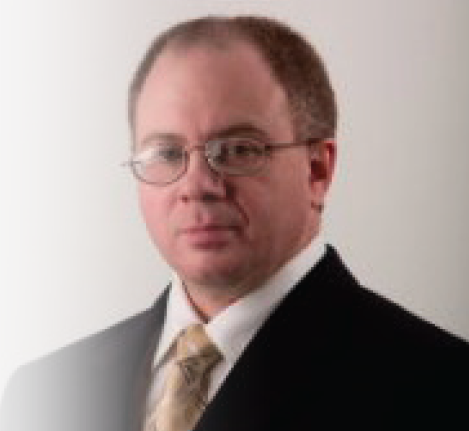
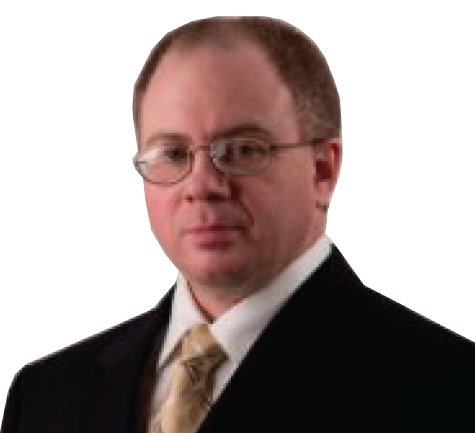
homepage responsiveness

diff --git a/css/style.css b/css/style.css
@@ -1,1 +1,1 @@
-@import url(https://fonts.googleapis.com/css?family=Open+Sans:400,800,600,300,700);header .navbar-default{background:#fff;min-height:100px;padding:12px 0;border-bottom:5px solid #0098d1;margin-bottom:0}@media (max-width:480px){header .navbar-default .logo{width:80%}}header .navbar-default .navbar-nav>li.active>a{color:#707070;background:0 0;font-weight:800;font-family:OpenSansExtraBold}header .navbar-default .navbar-nav>li.active>a:focus,header .navbar-default .navbar-nav>li.active>a:hover{color:#707070;background:0 0;font-family:OpenSansExtraBold}header .navbar-default .navbar-nav>li>a{padding-top:25px;padding-bottom:25px;color:#898989;text-transform:uppercase;-webkit-transition:all .2s ease-in-out 0s;-o-transition:all .2s ease-in-out 0s;transition:all .2s ease-in-out 0s;font-weight:600;font-size:16px;font-family:OpenSansSemibold}header .navbar-default .navbar-nav>li>a:focus,header .navbar-default .navbar-nav>li>a:hover{color:#707070;background:0 0;font-family:OpenSansSemibold}@media (max-width:991px){header .navbar-default .navbar-nav>li>a{padding:25px 10px}}@media (max-width:767px){header .navbar-toggle{margin-top:18px}}.upper-footer{padding:60px 0;background:#0098d1;color:#fff}.upper-footer p{font-size:16px;margin-bottom:0;display:inline-block;vertical-align:middle}@media (max-width:991px){.upper-footer .copyright{text-align:center}}.upper-footer .footer-menu{margin-bottom:0}.upper-footer .footer-menu li{list-style-type:none;display:inline-block;vertical-align:middle;line-height:normal}.upper-footer .footer-menu li a{display:inline-block;vertical-align:top;color:#fff;padding:0 12px;font-size:16px;line-height:normal;text-transform:uppercase;font-weight:700;-webkit-transition:all .3s ease-in-out 0s;-o-transition:all .3s ease-in-out 0s;transition:all .3s ease-in-out 0s}.upper-footer .footer-menu li a:hover{color:#eee}@media (max-width:991px){.upper-footer .footer-menu{float:none!important;margin-top:10px;padding:0;text-align:center}}.bottom-footer{background:#00aeef;padding:30px 0;text-align:center}body{color:#707070;font-family:'Open Sans',sans-serif;font-size:18px}a:active,a:focus,a:hover{text-decoration:none}a:active,a:focus{outline:0}h3{color:#0098d1;text-transform:uppercase;font-size:36px;font-weight:400}h5{text-transform:uppercase;font-size:18px}img{max-width:100%}.btn-custom-blue{background:#fff;border-color:#0098d1;text-transform:uppercase;color:#0098d1;font-family:OpenSansBold;-webkit-transition:all .3s ease-in-out 0s;-o-transition:all .3s ease-in-out 0s;transition:all .3s ease-in-out 0s;font-weight:700;font-size:16px;padding:12px 20px}.btn-custom-blue:focus,.btn-custom-blue:hover{background:#0098d1;color:#fff}.btn-custom-white{border-color:#fff;text-transform:uppercase;color:#fff;-webkit-transition:all .3s ease-in-out 0s;-o-transition:all .3s ease-in-out 0s;transition:all .3s ease-in-out 0s;font-weight:700;font-size:16px;padding:12px 20px}.btn-custom-white:focus,.btn-custom-white:hover{background:#fff;color:#0098d1}.button-container{position:relative;float:left;-webkit-transform:rotate(-90deg);-moz-transform:rotate(270deg);-o-transform:rotate(270deg);-webkit-transform-origin:285px 285px 0;-moz-transform-origin:285px 285px 0;-o-transform-origin:285px 285px 0}@media (max-width:767px){.button-container{float:none;margin-top:10px;text-align:center;-webkit-transform:rotate(0deg);-moz-transform:rotate(0deg);-o-transform:rotate(0deg)}}.btn-contact{text-transform:uppercase;font-size:16px;color:#fff;padding:6px 12px;font-weight:700;font-family:OpenSansBold}.btn-contact:hover{color:#fff}@media (max-width:480px){.btn-contact{display:block}}.btn-contact-blue{background:#0098d1}.btn-contact-blue:hover{background:#00739e}.btn-contact-green{background:#8dc63f}.btn-contact-green:hover{background:#72a230}.welcome-banner{background:url(../images/top-banner.png) center;background-size:cover;min-height:680px}.welcome-banner .banner-content{background:rgba(0,153,210,.5);padding:40px 90px;margin:300px 120px 150px;text-align:center}.welcome-banner .banner-content h1{text-transform:uppercase;color:#fff;font-size:66px;margin-top:0;font-weight:300}.welcome-banner .banner-content h1 span{font-weight:700}.welcome-banner .banner-content p{color:#fff;font-size:24px;font-family:OpenSansLight}.sticky-btns{background:0 0;min-height:inherit}.main-section{background:#fafafc}.main-section .content-section{padding:70px 0}.main-section .content-section p{font-size:18px}.main-section .content-section .btn{margin-top:10px}.cols-section{padding:65px 0;background-color:#fff}.cols-section .home-img-icon{height:120px;width:120px;background:#0098d1;border-radius:50%;line-height:120px;text-align:center;display:inline-block;vertical-align:middle}.cols-section .home-inner-cols{padding:0 40px}.cols-section h5{margin:40px 0;font-family:OpenSansBold}.mid-banner{padding:45px 0;background:url(../images/banner2.png) center;background-size:cover}.mid-banner .mid-content{text-align:center}.mid-banner .mid-content h4{font-size:44px;font-family:'Open Sans',sans-serif;text-transform:uppercase;color:#fff}@font-face{font-family:OpenSansRegular;src:url(../fonts/OpenSans-Regular.ttf)}@font-face{font-family:OpenSansLight;src:url(../fonts/OpenSans-Light.ttf)}@font-face{font-family:OpenSansLightItalic;src:url(../fonts/OpenSans-LightItalic.ttf)}@font-face{font-family:OpenSansBold;src:url(../fonts/OpenSans-Bold.ttf)}@font-face{font-family:OpenSansSemibold;src:url(../fonts/OpenSans-Semibold.ttf)}@font-face{font-family:OpenSansExtraBold;src:url(../fonts/OpenSans-ExtraBold.ttf)}body{background:url(../images/body-bg.png)}h1,h2,h3,h4,h5,h6{font-family:OpenSansLight}a{text-decoration:none}.padding-zero{padding:0}.text-right{text-align:right}.main-wrap{width:100%;padding-top:75px;background:0 0}.heading-wrap{margin-bottom:75px;text-align:center;color:#fff}.heading-wrap .title{font-size:66px;font-weight:400;text-transform:uppercase}.heading-wrap .tag-line{font-size:23px;font-weight:400}.content-container{background-image:linear-gradient(transparent 100px,#f3f3f5 100px,#f3f3f5 100%)}.content-wrap{background-color:#fff;font-weight:400;color:#757575}.contact-form{border-top:15px solid #0198d1;padding:40px}.contact-form .required-instruction{margin-bottom:30px;font-size:16px}.contact-form .required{color:red}.contact-form .form-group label{font-weight:400;font-size:16px}.contact-form .form-group .text-box{height:55px;border-color:#00aff0}.contact-form .form-group textarea{min-height:185px}.contact-form .submit{border-color:#00aff0;font-family:openSansBold;font-size:16px;text-transform:uppercase;color:#00aff0}.contact-form .submit:focus,.contact-form .submit:hover{background-color:#00aff0;color:#fff}.careers-form{border-top-color:#8ec63f}.about-container{background-color:#fff;font-size:18px}.about-container .title{margin-bottom:30px;font-size:32px;text-transform:uppercase;color:#4fbfed}.about-container .superior-benefits-content{margin-bottom:60px}.about-container .superior-benefits{margin:0 0 10px;padding-left:15px;font-family:OpenSansLightItalic;font-size:34px}@media (max-width:480px){.about-container .superior-benefits{padding-left:0;font-size:28px}}.about-container .who-avisyn{padding-left:50px;background:linear-gradient(to right,#f9f9f9,#f9f9f9,#f9f9f9,#f9f9f9,#e4dedd,#cabebe);background-size:cover}.about-container .who-avisyn .about-avisyn-outer{padding-top:70px}.about-container .who-avisyn .about-avisyn-outer p{margin-bottom:30px}.about-container .who-avisyn .founder-img-outer{text-align:right}.about-container .who-avisyn .founder-img-outer .founder-img{display:initial}@media (max-width:991px){.about-container .who-avisyn .founder-img-outer{text-align:center}}@media (max-width:991px){.about-container .who-avisyn{padding-right:50px}}.about-container .about-content-wrap{padding:50px}.about-container .about-content-wrap .other-content{margin-top:30px}.about-container .about-content-wrap .other-content .author{font-family:OpenSansSemibold}.about-container .about-content-wrap .other-content .founder{font-family:OpenSansExtraBold}.about-container .about-content-wrap .contact-us-link{margin-top:80px}.about-container .about-content-wrap .contact-us-link .contact{border-top:1px solid #44c4f3;padding-top:20px;color:#44c4f3}.text-with-border{margin:50px 0 0;width:80px;border-color:#44c4f3}.contact-wrap{border:none}.services-mid-banner{float:right;padding-top:100px;background:url(../images/services-mid-banner.png) repeat-x #0098d1}.services-mid-banner .mid-content{float:right;width:77%;padding-right:70px;text-align:left}.services-mid-banner .mid-content h4{font-family:openSansLight;font-size:32px}.services-mid-banner .mid-content p{color:#fff}@media (max-width:991px){.services-mid-banner .mid-content{float:none;width:100%;padding-left:50px;padding-right:50px}}@media (max-width:991px){.services-mid-banner{padding-top:50px}}.find-out-text{padding-top:10px}.content-wrap .insourcing-wrap{background:#fff}.content-wrap .services-cols{padding:50px 55px;background:#fff;clear:both}.content-wrap .services-cols .cols-content h4{margin:40px 0;font-family:openSansLight;font-size:28px;text-transform:uppercase;color:#00aeef}.content-wrap .services-cols .cols-content p{margin-bottom:30px}.content-wrap .services-cols .cols-content p a{color:#00aeef}
+@import url(https://fonts.googleapis.com/css?family=Open+Sans:400,800,600,300,700);header .navbar-default{background:#fff;min-height:100px;padding:12px 0;border-bottom:5px solid #0098d1;margin-bottom:0}@media (max-width:480px){header .navbar-default .logo{width:80%}}header .navbar-default .navbar-nav>li.active>a{color:#707070;background:0 0;font-weight:800;font-family:OpenSansExtraBold}header .navbar-default .navbar-nav>li.active>a:focus,header .navbar-default .navbar-nav>li.active>a:hover{color:#707070;background:0 0;font-family:OpenSansExtraBold}header .navbar-default .navbar-nav>li>a{padding-top:25px;padding-bottom:25px;color:#898989;text-transform:uppercase;-webkit-transition:all .2s ease-in-out 0s;-o-transition:all .2s ease-in-out 0s;transition:all .2s ease-in-out 0s;font-weight:600;font-size:16px;font-family:OpenSansSemibold}header .navbar-default .navbar-nav>li>a:focus,header .navbar-default .navbar-nav>li>a:hover{color:#707070;background:0 0;font-family:OpenSansSemibold}@media (max-width:991px){header .navbar-default .navbar-nav>li>a{padding:25px 10px}}@media (max-width:767px){header .navbar-toggle{margin-top:18px}}.upper-footer{padding:60px 0;background:#5ac9f3;color:#fff}.upper-footer p{font-size:16px;margin-bottom:0;display:inline-block;vertical-align:middle}@media (max-width:991px){.upper-footer .copyright{text-align:center}}.upper-footer .footer-menu{margin-bottom:0}.upper-footer .footer-menu li{list-style-type:none;display:inline-block;vertical-align:middle;line-height:normal}.upper-footer .footer-menu li a{display:inline-block;vertical-align:top;color:#fff;padding:0 12px;font-size:16px;line-height:normal;text-transform:uppercase;font-weight:700;-webkit-transition:all .3s ease-in-out 0s;-o-transition:all .3s ease-in-out 0s;transition:all .3s ease-in-out 0s}.upper-footer .footer-menu li a:hover{color:#eee}@media (max-width:991px){.upper-footer .footer-menu{float:none!important;margin-top:10px;padding:0;text-align:center}}.bottom-footer{background:#00aeef;padding:30px 0;text-align:center}body{color:#707070;font-family:'Open Sans',sans-serif;font-size:18px}a:active,a:focus,a:hover{text-decoration:none}a:active,a:focus{outline:0}h3{color:#0098d1;text-transform:uppercase;font-size:36px;font-weight:400}h5{text-transform:uppercase;font-size:18px}img{max-width:100%}.btn-custom-blue{background:#fff;border-color:#0098d1;text-transform:uppercase;color:#0098d1;font-family:OpenSansBold;-webkit-transition:all .3s ease-in-out 0s;-o-transition:all .3s ease-in-out 0s;transition:all .3s ease-in-out 0s;font-weight:700;font-size:16px;padding:12px 20px}.btn-custom-blue:focus,.btn-custom-blue:hover{background:#0098d1;color:#fff}.btn-custom-white{border-color:#fff;text-transform:uppercase;color:#fff;-webkit-transition:all .3s ease-in-out 0s;-o-transition:all .3s ease-in-out 0s;transition:all .3s ease-in-out 0s;font-weight:700;font-size:16px;padding:12px 20px}.btn-custom-white:focus,.btn-custom-white:hover{background:#fff;color:#0098d1}.button-container{position:relative;float:left;margin-top:-22px;-webkit-transform:rotate(-90deg);-moz-transform:rotate(270deg);-o-transform:rotate(270deg);-webkit-transform-origin:285px 285px 0;-moz-transform-origin:285px 285px 0;-o-transform-origin:285px 285px 0}@media (max-width:767px){.button-container{float:none;margin-top:10px;text-align:center;-webkit-transform:rotate(0deg);-moz-transform:rotate(0deg);-o-transform:rotate(0deg)}}.btn-contact{text-transform:uppercase;font-size:16px;color:#fff;padding:6px 12px;font-weight:700;font-family:OpenSansBold}.btn-contact:hover{color:#fff}@media (max-width:480px){.btn-contact{display:block}}.btn-contact-blue{background:#0098d1}.btn-contact-blue:hover{background:#00739e}.btn-contact-green{background:#8dc63f;margin-left:-25px;margin-right:15px}.btn-contact-green:hover{background:#72a230}@media (max-width:767px){.btn-contact-green{margin:0}}.welcome-banner{background:url(../images/top-banner.png) center;background-size:cover;min-height:680px}.welcome-banner .banner-content{background:rgba(0,153,210,.5);padding:40px 90px;margin:300px 120px 150px;text-align:center}.welcome-banner .banner-content h1{text-transform:uppercase;color:#fff;font-size:66px;margin-top:0;font-weight:300}.welcome-banner .banner-content h1 span{font-weight:700}.welcome-banner .banner-content p{color:#fff;font-size:24px;font-family:OpenSansLight}@media (max-width:767px){.welcome-banner .banner-content{margin:20% 0 0}}@media (max-width:480px){.welcome-banner .banner-content{padding:20px}.welcome-banner .banner-content h1{font-size:50px}}.sticky-btns{background:0 0;min-height:inherit}.main-section{background:#fafafc}.main-section .content-section{padding:70px 0}.main-section .content-section p{font-size:18px}.main-section .content-section .btn{margin-top:10px}.cols-section{padding:65px 0;background-color:#fff}.cols-section .home-img-icon{height:120px;width:120px;background:#0098d1;border-radius:50%;line-height:120px;text-align:center;display:inline-block;vertical-align:middle}.cols-section .home-inner-cols{padding:0 40px}.cols-section h5{margin:40px 0;font-family:OpenSansBold}.mid-banner{padding:45px 0;background:url(../images/banner2.png) center;background-size:cover}.mid-banner .mid-content{text-align:center}.mid-banner .mid-content h4{font-size:44px;font-family:'Open Sans',sans-serif;text-transform:uppercase;color:#fff}@font-face{font-family:OpenSansRegular;src:url(../fonts/OpenSans-Regular.ttf)}@font-face{font-family:OpenSansLight;src:url(../fonts/OpenSans-Light.ttf)}@font-face{font-family:OpenSansLightItalic;src:url(../fonts/OpenSans-LightItalic.ttf)}@font-face{font-family:OpenSansBold;src:url(../fonts/OpenSans-Bold.ttf)}@font-face{font-family:OpenSansSemibold;src:url(../fonts/OpenSans-Semibold.ttf)}@font-face{font-family:OpenSansExtraBold;src:url(../fonts/OpenSans-ExtraBold.ttf)}body{background:url(../images/body-bg.png) center 0}h1,h2,h3,h4,h5,h6{font-family:OpenSansLight}a{text-decoration:none}.padding-zero{padding:0}.text-right{text-align:right}.main-wrap{width:100%;padding-top:45px;background:0 0}.heading-wrap{margin-bottom:60px;text-align:center;color:#fff}.heading-wrap .title{font-size:66px;font-weight:400;text-transform:uppercase}.heading-wrap .tag-line{font-size:23px;font-weight:400}.content-container{background-image:linear-gradient(transparent 155px,#f3f3f5 155px,#f3f3f5 100%)}.content-wrap{background-color:#fff;font-weight:400;color:#757575}.contact-form{border-top:15px solid #0198d1;padding:40px}.contact-form .required-instruction{margin-bottom:20px;font-size:16px}.contact-form .required{color:red}.contact-form .form-group label{margin-top:10px;font-weight:400;font-size:16px}.contact-form .form-group .text-box{height:55px;border-color:#00aff0}.contact-form .form-group textarea{min-height:185px}.contact-form .submit{border-color:#00aff0;font-family:openSansBold;font-size:16px;text-transform:uppercase;color:#00aff0}.contact-form .submit:focus,.contact-form .submit:hover{background-color:#00aff0;color:#fff}.careers-form{border-top-color:#8ec63f}.about-container{background-color:#fff;font-size:18px}.about-container .title{margin-bottom:30px;font-size:32px;text-transform:uppercase;color:#4fbfed}.about-container .superior-benefits-content{margin-bottom:60px}.about-container .superior-benefits{margin:0 0 10px;padding-left:15px;font-family:OpenSansLightItalic;font-size:34px}@media (max-width:480px){.about-container .superior-benefits{padding-left:0;font-size:28px}}.about-container .who-avisyn{padding-left:50px;background:linear-gradient(to right,#f9f9f9,#f9f9f9,#f9f9f9,#f9f9f9,#e4dedd,#cabebe);background-size:cover}.about-container .who-avisyn .about-avisyn-outer{padding-top:70px}.about-container .who-avisyn .about-avisyn-outer p{margin-bottom:30px}.about-container .who-avisyn .founder-img-outer{text-align:right}.about-container .who-avisyn .founder-img-outer .founder-img{display:initial}@media (max-width:991px){.about-container .who-avisyn .founder-img-outer{text-align:center}}@media (max-width:991px){.about-container .who-avisyn{padding-right:50px}}.about-container .about-content-wrap{padding:50px}.about-container .about-content-wrap .other-content{margin-top:30px}.about-container .about-content-wrap .other-content .author{font-family:OpenSansSemibold}.about-container .about-content-wrap .other-content .founder{font-family:OpenSansExtraBold}.about-container .about-content-wrap .contact-us-link{margin-top:80px}.about-container .about-content-wrap .contact-us-link .contact{border-top:1px solid #44c4f3;padding-top:20px;color:#44c4f3}.text-with-border{margin:50px 0 0;width:80px;border-color:#44c4f3}.contact-wrap{border-color:transparent}.services-mid-banner{float:right;padding-top:100px;background:url(../images/services-mid-banner.png) repeat-x #0098d1}.services-mid-banner .mid-content{float:right;width:77%;padding-right:70px;text-align:left}.services-mid-banner .mid-content h4{font-family:openSansLight;font-size:32px}.services-mid-banner .mid-content p{color:#fff}@media (max-width:991px){.services-mid-banner .mid-content{float:none;width:100%;padding-left:50px;padding-right:50px}}@media (max-width:991px){.services-mid-banner{padding-top:50px}}.find-out-text{padding-top:10px}@media (max-width:991px){.content-wrap .insourcing-wrap{background:#fff}}.content-wrap .services-cols{padding:50px 55px;background:#fff;clear:both}.content-wrap .services-cols .cols-content img{width:100%}.content-wrap .services-cols .cols-content h4{margin:40px 0;font-family:openSansLight;font-size:28px;text-transform:uppercase;color:#00aeef}.content-wrap .services-cols .cols-content p{margin-bottom:30px}.content-wrap .services-cols .cols-content p a{color:#00aeef}

diff --git a/less/base.less b/less/base.less
@@ -61,6 +61,7 @@ img {
 .button-container {
 	position: relative;
 	float: left;
+	margin-top: -22px;
 	-webkit-transform: rotate(-90deg);  /* Saf3.1+, Chrome */
 	   -moz-transform: rotate(270deg);  /* FF3.5+ */
          -o-transform: rotate(270deg);  /* Opera 10.5 */
@@ -98,8 +99,13 @@ img {
 }
 .btn-contact-green {
 	background: @primary-green-color;
+	margin-left: -25px;
+	margin-right: 15px;
 	&:hover {
 		background: darken(@primary-green-color, 10%);
+	}
+	@media (max-width: 767px) {
+		margin: 0;
 	}
 }
 .welcome-banner {
@@ -127,6 +133,19 @@ img {
 			color: #fff;
 			font-size: 24px;
 			font-family: OpenSansLight;
+		}
+	}
+	@media(max-width: 767px) {
+		.banner-content {
+			margin: 20% 0 0 0;
+		}
+	}
+	@media(max-width: 480px) {
+		.banner-content {
+			padding: 20px; 
+			h1 {
+				font-size: 50px;
+			}
 		}
 	}
 }
@@ -209,6 +228,7 @@ img {
 }
 body {
 	background: url('../images/body-bg.png');
+	background-position: center 0;
 }
 h1, h2, h3, h4, h5, h6 {
 	font-family: OpenSansLight;
@@ -224,11 +244,11 @@ a {
 }
 .main-wrap {
 	width: 100%;
-	padding-top: 75px;
+	padding-top: 45px;
 	background: transparent;
 }
 .heading-wrap {
-	margin-bottom: 75px;
+	margin-bottom: 60px;
 	text-align: center;
 	color: #fff;
 	.title {
@@ -242,7 +262,7 @@ a {
 	}
 }
 .content-container {
-	background-image: linear-gradient(transparent 100px, #f3f3f5 100px, #f3f3f5 100%);
+	background-image: linear-gradient(transparent 155px, #f3f3f5 155px, #f3f3f5 100%);
 }
 /* Contact page style */
 .content-wrap {
@@ -254,7 +274,7 @@ a {
 	border-top: 15px solid #0198d1;
 	padding: 40px;
 	.required-instruction {
-		margin-bottom: 30px;
+		margin-bottom: 20px;
 		font-size: 16px;
 	}
 	.required {
@@ -262,6 +282,7 @@ a {
 	}
 	.form-group {
 		label {
+			margin-top: 10px;
 			font-weight: normal;
 			font-size: 16px;
 		}
@@ -365,5 +386,5 @@ a {
 	border-color: #44c4f3;
 }
 .contact-wrap {
-	border: none;
+	border-color: transparent;
 }

diff --git a/js/custom.js b/js/custom.js
@@ -1,0 +1,34 @@
+$( document ).ready(function() {
+	$('.navbar-nav>li').click(function() {
+		$('.navbar-nav>li').removeClass('active');
+		$(this).addClass('active');
+	})
+	var path = window.location.pathname.split("/").pop();
+
+		// Account for home page with empty path
+		if ( path == '' ) {
+			path = 'index.php';
+		}
+
+	var target = $('.navbar-nav>li a[href="'+path+'"]');
+	// Add active class to target link
+	target.parent().addClass('active');
+
+
+	/* sticky header */
+	// Fixa navbar ao ultrapassa-lo
+	var navbar = $('.navbar-default'),
+	distance = navbar.offset().top,
+	$window = $(window);
+	var navbarheight = $('.navbar-default').height();
+
+	$window.scroll(function() {
+		if ($window.scrollTop() === 0) {
+			navbar.removeClass('navbar-fixed-top');
+			$("body").css("padding-top", "0px");
+		} else {
+			navbar.removeClass('navbar-fixed-top').addClass('navbar-fixed-top');
+			$("body").css("padding-top", navbarheight + "px");
+		}
+	});
+});

diff --git a/less/services.less b/less/services.less
@@ -31,13 +31,18 @@
 }
 .content-wrap {
 	.insourcing-wrap {
-		background: #fff;
+		@media (max-width: 991px) {
+			background: #fff;
+		}
 	}
 	.services-cols {
 		padding: 50px 55px;
 		background: #fff;
 		clear: both;
 		.cols-content {
+			img {
+				width: 100%;
+			}
 			h4 {
 				margin: 40px 0;
 				font-family: openSansLight;

diff --git a/less/footer.less b/less/footer.less
@@ -1,6 +1,6 @@
 .upper-footer {
 	padding: 60px 0;
-	background: @primary-blue-color;
+	background: #5ac9f3;
 	color: #fff;
 	p {
 		font-size: 16px;

diff --git a/about.php b/about.php
@@ -33,7 +33,7 @@
 						<p>While insourcing is not a new concept, it’s not that widely used in the drug discovery and development industry. And yet it seems ideally suited to a business where you need different specialized experts at each stage of the pipeline. Why go through the lengthy process of finding and hiring a team of scientists only to have to lay them off a year later when that phase of the project is complete? It was in part my own personal experience going through that process that inspired me and my partners to start AviSyn.</p>
 					</div>
 					<div class="col-md-6 founder-img-outer">
-						<img src="images/avisyn-2.png" class="img-responsive founder-img">
+						<img src="images/avisyn.png" class="img-responsive founder-img">
 					</div>
 				</div>
 			</div>
@@ -45,7 +45,7 @@
 						<h2 class="title superior-benefits">“The superior benefits of insourcing versus outsourcing—faster communication and greater collaboration“</h2>
 					</div>
 					<div class="col-md-7">
-						<p>Many years back, I was a scientist at AstraZeneca responsible for review and oversight of our outsourcing strategies and CRO partners. We faced an urgent resourcing gap in our chemistry department, but we had a head-count freeze. After considering multiple options, we decided to insource fifteen synthetic chemists—20% of our total count—because of the speed and flexibility of the process. These chemists had outstanding qualifications and I was able to see first-hand the superior benefits of insourcing versus outsourcing—faster communication and greater collaboration because we were all there in the same place.</p>
+						<p>Many years back, I was a scientist at AstraZeneca responsible for review and oversight of our outsourcing strategies and CRO partners. We faced an urgent resourcing gap in our chemistry department, but we had a head-count freeze. After considering, our division decided to insource 15 chemists of our total count—because of the speed and flexibility of the process. These chemists had outstanding qualifications and I was able to see first-hand the superior benefits of insourcing versus outsourcing—faster communication and greater collaboration because we were all there in the same place.</p>
 					</div>
 				</div>
 				<p class="other-content">

diff --git a/services.php b/services.php
@@ -45,7 +45,7 @@
 			<div class="services-mid-banner mid-banner">
 				<div class="mid-content">
 					<h4>why insource with avisyn</h4>
-					<p>With over 30 combined years of drug discovery and development research in pharma and biotech — both managing and at the bench — the AviSyn team understands the kind of expertise it takes to move compounds through the pipeline. We nurture teams of expert, innovative scientists that can be in place, on site within weeks, and that will stay until your project is complete. Reporting directly to your project leaders while also being further guided and mentored by our experienced management team, AviSyn’s scientists bring a wealth of industry experience to your site.</p>
+					<p>With decades of combined drug discovery and development research in pharma and biotech — both managing and at the bench — the AviSyn team understands the kind of expertise it takes to move compounds through the pipeline. We nurture teams of expert, innovative scientists that can be in place, on site within weeks, and that will stay until your project is complete. Reporting directly to your project leaders while also being further guided and mentored by our experienced management team, AviSyn’s scientists bring a wealth of industry experience to your site.</p>
 				</div>
 			</div>
 
@@ -58,9 +58,11 @@
 						<p>Supporting a wide range of drug discovery and development activities, we are currently offering scientific expertise in the following areas:  Synthesis, medicinal chemistry design, computational chemistry, and analytical chemistry.</p>
 					</div>
 					<div class="col-md-6 cols-content">
+					<div>
 						<img src="images/map.png">
 						<h4>what regions do we serve?</h4>
 						<p>Currently focused on the San Diego area, we are rapidly expanding our services to other biotech hubs such as San Francisco and Boston. <a href="">Contact us</a> to find out if we can support a project in your region.</p>
+						</div>
 					</div>
 				</div>
 			</div>

diff --git a/index.php b/index.php
@@ -46,7 +46,7 @@
 			      	<h5>
 			      		<strong>Why Insource with AviSyn?</strong>
 			      	</h5>
-			      	<p class="text-muted">With over 30 combined years of drug discovery and development research in pharma and biotech, both managing and at the bench. </p>
+			      	<p class="text-muted">With decades of combined drug discovery and development research in pharma and biotech, both managing and at the bench. </p>
 			    </div>
 				<div class="col-sm-4 home-inner-cols">
 					<div class="text-center">
@@ -77,7 +77,7 @@
 	<div class="mid-banner">
 		<div class="mid-content">
 			<h4>Join the AviSyn Team</h4>
-			<a href="#" class="btn btn-custom-white btn-lg">Join Now</a>
+			<a href="#" class="btn btn-custom-white btn-lg">Learn More</a>
 		</div>
 	</div>
 

diff --git a/header.php b/header.php
@@ -26,7 +26,7 @@
 				<!-- Collect the nav links, forms, and other content for toggling -->
 				<div class="collapse navbar-collapse" id="bs-example-navbar-collapse-1">
 					<ul class="nav navbar-nav navbar-right">
-						<li class="active"><a href="index.php">Home</a></li>
+						<li><a href="index.php">Home</a></li>
 						<li><a href="services.php">Services</a></li>
 						<li><a href="#">Careers</a></li>
 						<li><a href="about.php">About</a></li>

diff --git a/footer.php b/footer.php
@@ -18,7 +18,8 @@
 			<img src="images/small-logo.png" alt="ANISYS">
 		</div>
 	</footer>
-<script type="text/javascript" src="js/jquery.js"></script>
-<script type="text/javascript" src="js/bootstrap.js"></script>
+<script src="js/jquery.js"></script>
+<script src="js/bootstrap.js"></script>
+<script src="js/custom.js"></script>
 </body>
 </html>

diff --git a/contact-careers.php b/contact-careers.php
@@ -13,7 +13,7 @@
 	<div class="container">
 		<!-- Page heading section starts -->
 		<section class="heading-wrap">
-			<h1 class="title">start a career with us</h1>
+			<h1 class="title">Build your career with us</h1>
 			<p class="tag-line">Learn about open jobs.</p>
 		</section>
 		<!-- Page heading section ends -->	
